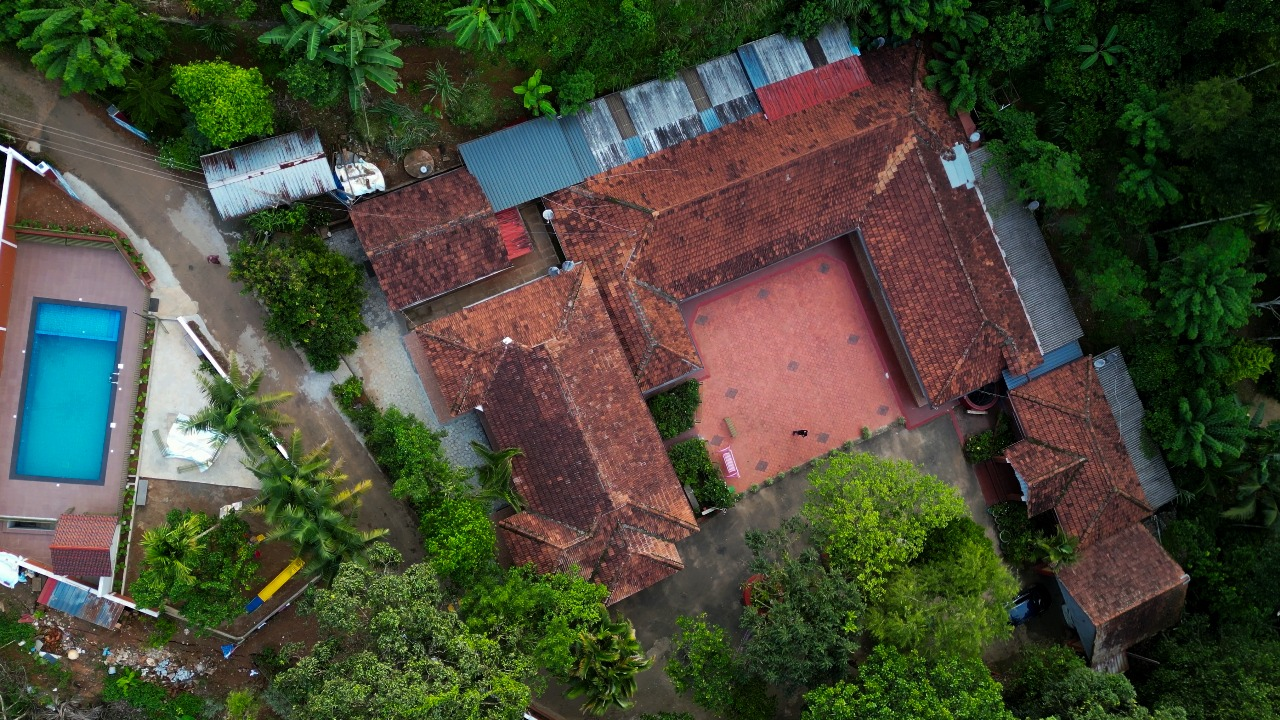
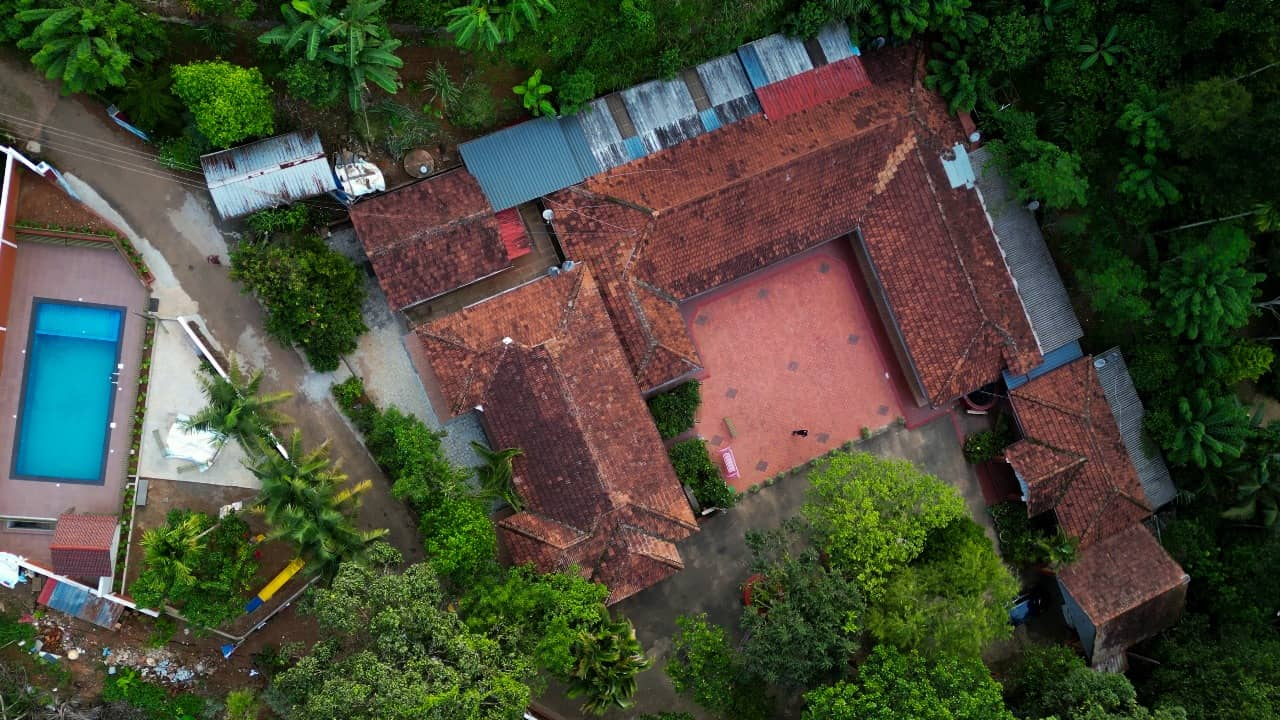
optimized assets

diff --git a/src/components/Home/components/VideoBackground.tsx b/src/components/Home/components/VideoBackground.tsx
@@ -1,51 +1,10 @@
-import { useState, useEffect } from 'react';
 import { Header } from './Header';
 import mobileimg from '../../../assets/mobileheroimg.jpg';
 import droneimg from '../../../assets/drone1.jpg';
 import { useNavigate } from 'react-router-dom';
-import Preloader from './Preloader';
 
 const VideoBackground = () => {
   const navigate = useNavigate();
-  const [isLoading, setIsLoading] = useState(true);
-  const [assetsReady, setAssetsReady] = useState(false);
-
-  const handleLoadingComplete = () => {
-    setIsLoading(false);
-  };
-
-  // Preload hero images and mark ready when both are loaded
-  useEffect(() => {
-    let cancelled = false;
-    const fallbackT = window.setTimeout(() => {
-      if (!cancelled) setAssetsReady(true);
-    }, 6000); // fallback to prevent hanging
-
-    const loadImage = (src: string) =>
-      new Promise<void>((resolve) => {
-        const img = new Image();
-        img.src = src;
-        if (img.complete) {
-          resolve();
-        } else {
-          img.onload = () => resolve();
-          img.onerror = () => resolve(); // tolerate errors to avoid blocking UI forever
-        }
-      });
-
-    Promise.all([loadImage(droneimg), loadImage(mobileimg)]).then(() => {
-      if (!cancelled) setAssetsReady(true);
-    });
-
-    return () => {
-      cancelled = true;
-      clearTimeout(fallbackT);
-    };
-  }, []);
-
-  if (isLoading) {
-    return <Preloader ready={assetsReady} onComplete={handleLoadingComplete} />;
-  }
 
   return (
     <div className="relative w-full h-screen overflow-hidden">

diff --git a/src/components/Home/Home.tsx b/src/components/Home/Home.tsx
@@ -117,7 +117,6 @@ const Home = () => {
           {JSON.stringify(jsonLd)}
         </script>
       </Helmet>
-
       <VideoBackground />
       <AboutSession />
       <GallarySession />
